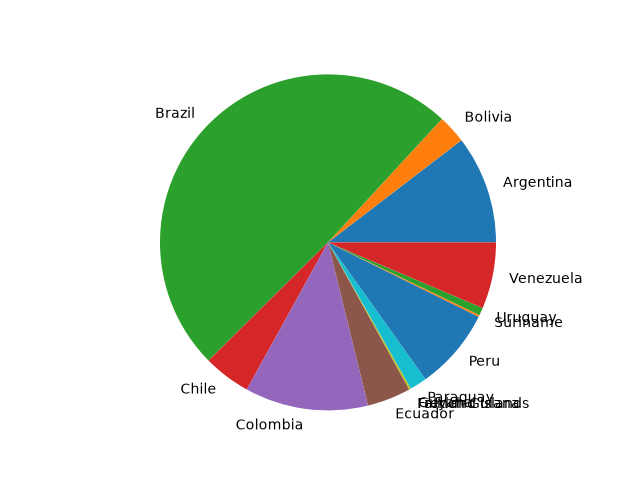
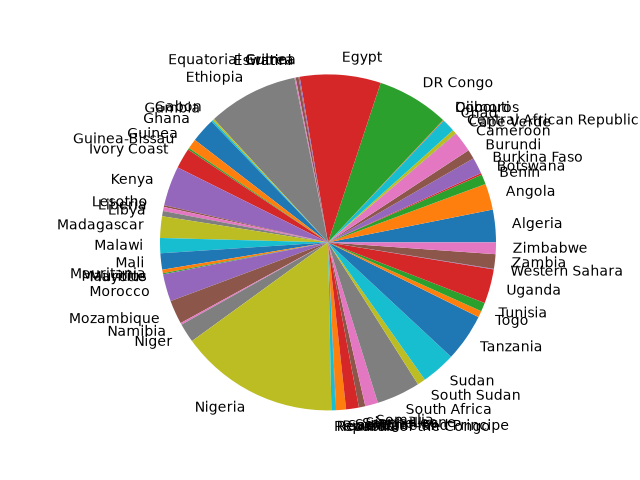
docker app i server

Changed region(s): [[0.0938, 0.0938, 1.0, 0.9062]]

diff --git a/app/main.py b/app/main.py
@@ -1,19 +1,28 @@
+import pandas as pd
+
+import charts
 import read_csv
 import utils
 
-import charts
-
 
 def run():
+    """
     data = read_csv.read_csv("data1.csv")
     data = list(filter(lambda item: item["Continent"] == "South America", data))
 
     countries = list(map(lambda x: x["Country"], data))
     percentages = list(map(lambda x: x["World Population Percentage"], data))
     percentages = list(map(float, percentages))
+    """
+    df = pd.read_csv("data1.csv")
+    df = df[df["Continent"] == "Africa"]
+    countries = df["Country"].values
+    percentages = df["World Population Percentage"].values
     charts.generate_pie_chart(countries, percentages)
 
+    data = read_csv.read_csv("data1.csv")
     country = input("Type Country => ")
+    print(country)
 
     result = utils.population_by_country(data, country)
 

diff --git a/web-server/main.py b/web-server/main.py
@@ -1,8 +1,8 @@
-import store
-
-'''
+# from os import name
 from fastapi import FastAPI
 from fastapi.responses import HTMLResponse
+
+import store
 
 app = FastAPI()
 
@@ -17,12 +17,13 @@ def get_list():
 
 
 @app.get("/contact", response_class=HTMLResponse)
+# @app.get("/contact")
 def get_list():
+    # return {"name": "Platzi"}
     return """
         <h1>Hola soy una pagina</h1>
         <p>soy un parrafo</p>
     """
-'''
 
 
 def run():

diff --git a/app/charts.py b/app/charts.py
@@ -12,5 +12,5 @@ def generate_pie_chart(labels, values):
     fig, ax = plt.subplots()
     ax.pie(values, labels=labels)
     ax.axis("equal")
-    plt.savefig("chart_pie.png")
+    plt.savefig("chart_pie_continental.png")
     plt.close()